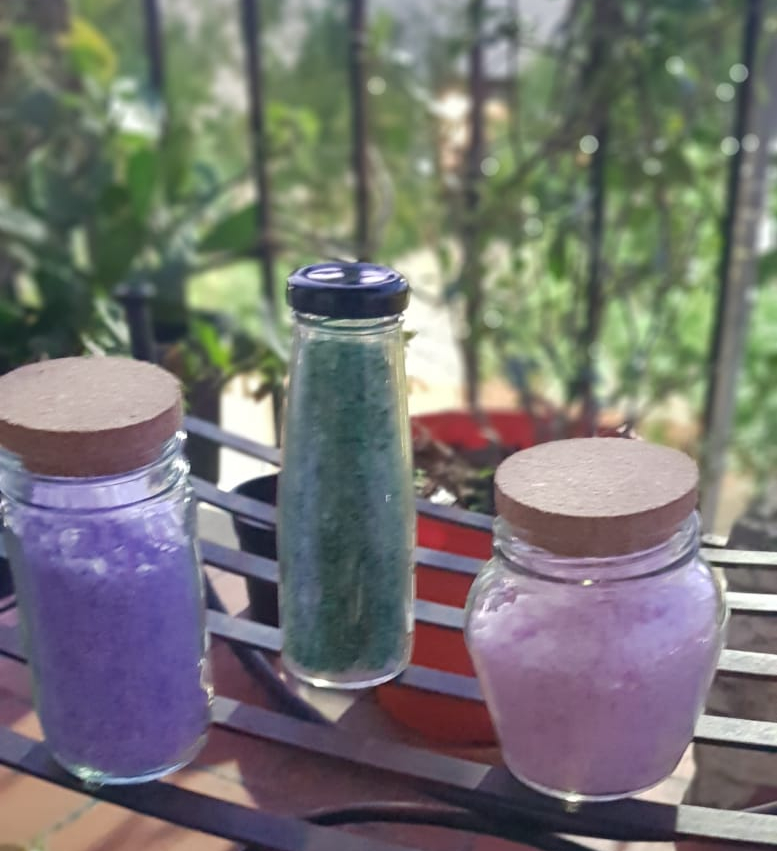
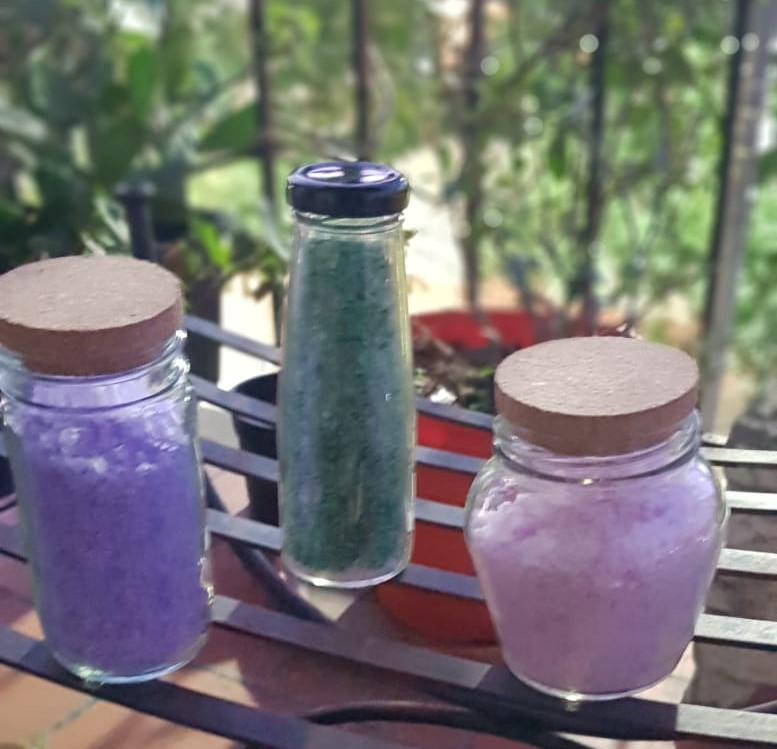
menu ocultto y  mejora imagenes section

diff --git a/css/style1.css b/css/style1.css
@@ -68,6 +68,21 @@ nav.nav-header {
     max-width: 100%;
 
 }
+div.menu-vertical {
+    display: none;
+    width: 13%;
+    width: 13%;
+    position: absolute;
+    top: 3vw;
+    left: 6vw;
+    padding: 2vw;
+    border: 3px solid var(--opera-mauve);
+    border-radius: 21px;
+}
+div.menu-vertical img {
+    width: 100%;
+    height: 100%;
+}
 div.title {
     font-family: 'Barlow', sans-serif;
     color: var(--opera-mauve);
@@ -90,7 +105,7 @@ ul.menu {
     
 }
 li.menu, li.submenu-li-productos {
-    padding: 10px;
+    padding: 15px;
     background: var(--lavender-blush);
     font-family: 'Barlow', sans-serif;
     font-weight: 300;
@@ -119,10 +134,10 @@ ul.submenu-productos {
 
 li.menu:hover, li.menu-li-productos:hover {
     transition-property: all;
-    transition-duration: 0.3s;
+    transition-duration: 0.4s;
     transition-timing-function: cubic-bezier(0.4, 0, 1, 1);
     opacity: 1;
-    background: var(--thistle);
+    background: var(--opera-mauve);
     color: var(--snow);
     font-weight: 500;
 }
@@ -138,7 +153,7 @@ li.submenu-li-productos:hover {
     transition-property: all;
     transition-duration: 0.3s;
     transition-timing-function: cubic-bezier(0.4, 0, 1, 1);
-    background: var(--thistle);
+    background: var(--opera-mauve);
     color: var(--snow);
 }
 li.submenu-li-productos:hover>a {
@@ -355,6 +370,41 @@ section.section div img {
         justify-content: center;
         align-content: center;
     }
+    div.menu-vertical {
+        display: block;
+    }
+    ul.menu {
+    visibility: hidden;
+    flex-direction: column;
+    align-items: center;
+    position: absolute;
+    width: 75%;
+    padding: 5vw;
+    background: #faf7f9a6;
+    row-gap: 6vw;
+    left: calc((100vw - 75%)/2);
+    top: 20%;
+    opacity: 0;
+    }
+    div.menu-vertical:hover~ div.menu ul.menu {
+        visibility: visible;
+        transition-property: opacity;
+        transition: all 0.5s ease;
+        opacity: 1;
+    }
+    li.menu, li.submenu-li-productos {
+        color: var(--twilight-lavender);
+        background:var(--queen-pink);
+        width: 100%;
+        font-weight: 400;
+        font-size: 24px;
+    }
+    ul.submenu-productos {
+        left: 22vw;
+    }
+    li.submenu-li-productos {
+        padding: 3vw;
+    }
     section.sec0 {
         flex-flow: column nowrap;
         width: 100%;
@@ -391,7 +441,9 @@ section.section div img {
         order: 1;
     }
     section.section div img {
-        object-fit: contain;
-        width: 80%;
+        width: 85%;
+    }
+    #img-sec2, #img-sec4 {
+        text-align: end;
     }
 }

diff --git a/index.html b/index.html
@@ -13,6 +13,9 @@
             <div class="logo">
                 <img src="./assets/SANTA-JUANITA-original-removebg-preview-cortado.png" alt="logotipo-santa-juanita">
             </div>
+            <div class="menu-vertical">
+                <img src="./assets/menu-vertical.png" alt="icono-menu-vertical">
+            </div>
             <div class="menu">
                 <div class="title"><h1>Santa Juanita - Mimos al Alma </h1></div>
                 <ul class="menu">
@@ -74,7 +77,7 @@
             </section>
             <section class="section sec3">
                 <div id="img-sec3">
-                    <img src="./assets/sales.jpg" alt="tarros-de-sales">
+                    <img src="./assets/sales-2.jpeg" alt="tarros-de-sales-de-baño">
                 </div>
                 <div id="text-sec3" class="sec-text">
                     <!-- <div class="contain-text"> -->
